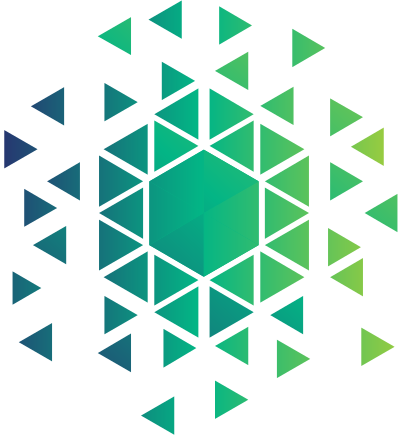
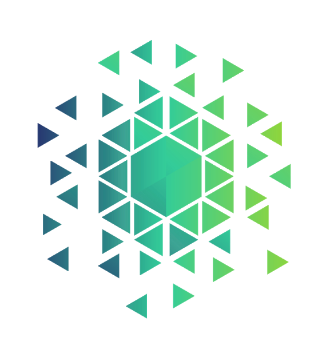
feat: refactoring video section and adding thumbnails

diff --git a/src/components/sections/video.tsx b/src/components/sections/video.tsx
@@ -4,6 +4,7 @@
 import { useI18n } from "@/providers/i18n-provider";
 import { useState, useRef, useEffect, useCallback } from "react";
 import { Play, X, ChevronLeft, ChevronRight } from "lucide-react";
+import Image from "next/image";
 
 const styles = `
   @keyframes fadeIn { 
@@ -65,7 +66,8 @@ const videosData = [
     descAr: "شرح شامل لنظام الاستثمار وكيفية تحقيق عائد 120%+",
     descEn: "Comprehensive explanation of investment system and 120%+ returns",
     videoUrl: "/videos/video.mp4",
-    duration: "3:45",
+    thumbnail: "/images/video-thumbnails/video-thumb.png",
+    duration: "4:45",
   },
   {
     id: 2,
@@ -74,7 +76,48 @@ const videosData = [
     descAr: "دليل خطوة بخطوة للبدء في استثمارك",
     descEn: "Step-by-step guide to start your investment",
     videoUrl: "/videos/video-1.mp4",
-    duration: "2:30",
+    thumbnail: "/images/video-thumbnails/video-1-thumb.png",
+    duration: "1:00",
+  },
+  {
+    id: 3,
+    titleAr: "خطوات البدء",
+    titleEn: "Personal experience of Investment",
+    descAr: "دليل خطوة بخطوة للبدء في استثمارك",
+    descEn: "Step-by-step guide to start your investment",
+    videoUrl: "/videos/video-2.mp4",
+    thumbnail: "/images/video-thumbnails/video-2-thumb.png",
+    duration: "0:37",
+  },
+  {
+    id: 4,
+    titleAr: "خطوات البدء",
+    titleEn: "Getting Started",
+    descAr: "دليل خطوة بخطوة للبدء في استثمارك",
+    descEn: "Step-by-step guide to start your investment",
+    videoUrl: "/videos/video-3.mp4",
+    thumbnail: "/images/video-thumbnails/video-3-thumb.png",
+    duration: "1:00",
+  },
+  {
+    id: 5,
+    titleAr: "خطوات البدء",
+    titleEn: "Getting Started",
+    descAr: "دليل خطوة بخطوة للبدء في استثمارك",
+    descEn: "Step-by-step guide to start your investment",
+    videoUrl: "/videos/video-4.mp4",
+    thumbnail: "/images/video-thumbnails/video-4-thumb.png",
+    duration: "1:10",
+  },
+  {
+    id: 6,
+    titleAr: "خطوات البدء",
+    titleEn: "Getting Started",
+    descAr: "دليل خطوة بخطوة للبدء في استثمارك",
+    descEn: "Step-by-step guide to start your investment",
+    videoUrl: "/videos/video-5.mp4",
+    thumbnail: "/images/video-thumbnails/video-5-thumb.png",
+    duration: "1:10",
   }
 ];
 
@@ -261,9 +304,9 @@ export function VideoSection() {
             </div>
 
             {/* Video Playlist */}
-            <div className="flex gap-6 overflow-x-auto no-scrollbar pb-10 -mx-4 px-4 lg:grid lg:grid-cols-2 lg:mx-0 lg:px-0 lg:overflow-visible">
+            <div className="flex gap-4 lg:gap-6 overflow-x-auto no-scrollbar pb-10 -mx-4 px-4 lg:grid lg:grid-cols-2 lg:mx-0 lg:px-0 lg:overflow-visible">
               {videosData.map((video, index) => (
-                video.id!== selectedVideo.id && (
+                video.id !== selectedVideo.id && (
                 <div
                   key={video.id}
                   onClick={() => handleVideoSelect(video)}
@@ -271,28 +314,55 @@ export function VideoSection() {
                   role="button"
                   tabIndex={0}
                   aria-label={`${language === "ar" ? "مشاهدة" : "Watch"} ${language === "ar" ? video.titleAr : video.titleEn}`}
-                  className={`video-card-hover flex-shrink-0 w-[80vw] lg:w-full group cursor-pointer rounded-2xl overflow-hidden border-2 transition-all animate-slideUp ${
-                    selectedVideo.id === video.id 
-                      ? "border-sky-500 ring-4 ring-sky-500/10" 
-                      : "border-transparent bg-slate-50 dark:bg-gray-900"
-                  }`}
-                  style={{ animationDelay: `${index * 100}ms` }}
+                  className="video-card-hover flex-shrink-0 w-[85vw] sm:w-[45vw] lg:w-full group cursor-pointer rounded-2xl overflow-hidden border-2 bg-white dark:bg-gray-900 border-gray-200 dark:border-gray-800 hover:border-gray-300 dark:hover:border-gray-700 shadow-md hover:shadow-xl transition-all duration-300 animate-slideUp"
+                  style={{ 
+                    animationDelay: `${index * 100}ms`,
+                  }}
                 >
-                  <div className="relative aspect-video bg-gradient-to-br from-gray-200 to-gray-300 dark:from-gray-800 dark:to-gray-900">
-                    <div className="absolute inset-0 bg-black/40 opacity-0 group-hover:opacity-100 transition-opacity flex items-center justify-center">
-                      <div className="p-3 rounded-full bg-white/20 backdrop-blur-md">
-                        <Play className="w-6 h-6 text-white fill-current" aria-hidden="true" />
+                  {/* Thumbnail Container */}
+                  <div className="relative aspect-video bg-gradient-to-br from-gray-100 via-gray-200 to-gray-300 dark:from-gray-800 dark:via-gray-900 dark:to-gray-800 overflow-hidden">
+                    {/* Video Thumbnail */}
+                    {video.thumbnail ? (
+                      <Image
+                        src={video.thumbnail}
+                        alt={language === "ar" ? video.titleAr : video.titleEn}
+                        fill
+                        className="object-cover transition-transform duration-300 group-hover:scale-110"
+                        sizes="(max-width: 640px) 85vw, (max-width: 1024px) 45vw, 50vw"
+                      />
+                    ) : (
+                      <div className="absolute inset-0 flex items-center justify-center">
+                        <div className="w-16 h-16 rounded-full bg-white/10 dark:bg-black/20 backdrop-blur-sm flex items-center justify-center border border-white/20">
+                          <Play className="w-8 h-8 text-gray-400 dark:text-gray-500 fill-current" aria-hidden="true" />
+                        </div>
+                      </div>
+                    )}
+
+                        
+                    {/* Hover Overlay */}
+                    <div className="absolute inset-0 bg-gradient-to-t from-black/60 via-black/0 to-black/0  transition-opacity duration-300 flex items-center justify-center">
+                      <div className="transform scale-90 group-hover:scale-100 transition-transform duration-300">
+                        <div className="w-16 h-16 rounded-full bg-white/20 backdrop-blur-md border-2 border-white/30 flex items-center justify-center shadow-2xl">
+                          <Play className="w-8 h-8 text-white fill-current translate-x-0.5" aria-hidden="true" />
+                        </div>
                       </div>
                     </div>
-                    <div className="absolute bottom-3 right-3 px-2 py-1 rounded bg-black/70 text-white text-[10px] font-bold backdrop-blur-sm">
+                    
+                    {/* Duration Badge */}
+                    <div className="absolute bottom-3 right-3 px-2.5 py-1 rounded-lg bg-black/80 text-white text-xs font-semibold backdrop-blur-md border border-white/10 shadow-lg z-10">
                       {video.duration}
                     </div>
+                    
+                    {/* Gradient Overlay */}
+                    <div className="absolute inset-0 bg-gradient-to-t from-black/20 via-transparent to-transparent pointer-events-none z-0" />
                   </div>
-                  <div className="p-5">
-                    <h5 className="font-bold text-base mb-1 truncate" style={{ color: colors.primary }}>
+                  
+                  {/* Card Content */}
+                  <div className="p-4 lg:p-5 bg-white dark:bg-gray-900">
+                    <h5 className="font-bold text-base lg:text-lg mb-2 line-clamp-2 leading-snug transition-colors group-hover:underline" style={{ color: colors.primary }}>
                       {language === "ar" ? video.titleAr : video.titleEn}
                     </h5>
-                    <p className="text-xs text-gray-500 dark:text-gray-400 line-clamp-1">
+                    <p className="text-sm text-gray-600 dark:text-gray-400 line-clamp-2 leading-relaxed">
                       {language === "ar" ? video.descAr : video.descEn}
                     </p>
                   </div>

diff --git a/src/components/sections/hero.tsx b/src/components/sections/hero.tsx
@@ -25,13 +25,13 @@ export function HeroSection() {
     { 
       icon: TrendingUp, 
       value: "120%", 
-      label: language === "ar" ? "عائد الربح" : "Profit Return",
+      label: language === "ar" ? "عائد الربح سنوياً" : "Profit Return Yearly",
       color: colors.primary,
     },
     { 
       icon: Users, 
       value: "1000+", 
-      label: language === "ar" ? "مستثمر" : "Investors",
+      label: language === "ar" ? "مستثمرين" : "Investors",
       color: colors.secondary,
     },
     { 
@@ -136,8 +136,8 @@ export function HeroSection() {
               style={{ transitionDelay: "300ms" }}
             >
               {language === "ar" 
-                ? "انضم إلى بوابة التسهيل وامتلك حصتك في قطاع الخدمات اللوجستية بعوائد تتجاوز 120%؛ إدارة احترافية وعقود موثقة حكومياً"
-                : "Join Portal and own your share in the logistics sector with returns exceeding 120%; professional management and government-certified contracts"}
+                ? "انضم إلى بوابة التسهيل وامتلك حصتك في قطاع الخدمات اللوجستية بعوائد تتجاوز 120% سنوياً إدارة احترافية وعقود موثقة حكومياً"
+                : "Join Portal and own your share in the logistics sector with returns exceeding 120% yearly; professional management and government-certified contracts"}
             </p>
 
             {/* CTA Buttons */}

diff --git a/src/components/sections/trust-bar.tsx b/src/components/sections/trust-bar.tsx
@@ -46,7 +46,7 @@ export function TrustBarSection() {
       alt: language === "ar" ? "المركز السعودي للأعمال" : "Saudi Business Center",
     },
     {
-      logo: "/images/platform-3.PNG",
+      logo: "/images/platform-3.png",
       alt: language === "ar" ? "المركز المعلومات الوطني" : "National Information Center",
     },
   ];